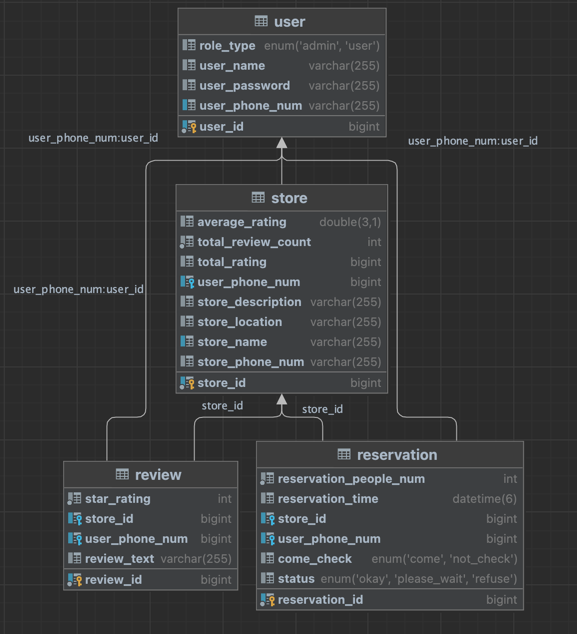
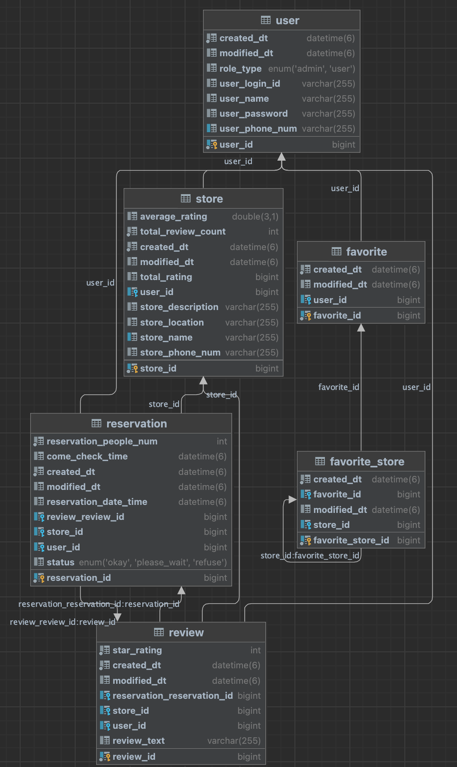
docs : readme.md & erd
user : id와 phoneNum 분리, 별도의 pk를 통해 회원을 조회하도록 수정
reservation : userPhoneNum -> userId
review : userPhoneNum -> userId / reservationTime -> reservationDateTime
favorite : 즐겨찾는 매장 저장하기 위해 추가

모든 entity 가 BaseTimeEntity를 extends 받고 있음

Changed region(s): [[0.0306, 0.0, 0.9497, 1.0], [0.8884, 0.4795, 0.9497, 0.5095]]

diff --git a/readme.md b/readme.md
@@ -65,10 +65,9 @@
   <img src="https://img.shields.io/badge/SpringBoot-6DB33F?style=for-the-square&logo=SpringBoot&logoColor=white"/>
   <img src="https://img.shields.io/badge/Java-007396?style=for-the-square&logo=java&logoColor=white">
   <img src="https://img.shields.io/badge/github-181717?style=for-the-square&logo=github&logoColor=white">
-  <img src="https://img.shields.io/badge/Mysql-E6B91E?style=for-the-square&logo=MySql&logoColor=white"/> 
-
-[//]: # (  <img src="https://img.shields.io/badge/Docker-2496ED?style=for-the-square&logo=Docker&logoColor=white"/> )
+  <img src="https://img.shields.io/badge/Mysql-E6B91E?style=for-the-square&logo=MySql&logoColor=white">
   <img src="https://img.shields.io/badge/gradle-02303A?style=for-the-square&logo=gradle&logoColor=white">
 
+[//]: # (  <img src="https://img.shields.io/badge/Docker-2496ED?style=for-the-square&logo=Docker&logoColor=white"/> )
 [//]: # (  <img src="https://img.shields.io/badge/AWS-232F3E?style=for-the-square&logo=amazonaws&logoColor=white">)
 </div>
